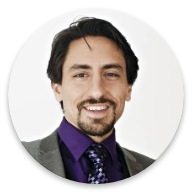
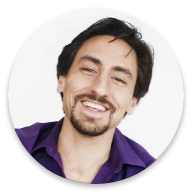
Changed photo, cleaned code.

diff --git a/style.css b/style.css
@@ -20,7 +20,7 @@ h3 {
 }
 
 .backgroundContainer {
-    background-color:  rgb(173, 66, 244); /*Hex color: #ad42f4*/
+    background-color:  rgb(173, 66, 244); /*Purple. Hex color: #ad42f4*/
     position: absolute;
     width: 100%;
     height: 425px;
@@ -34,7 +34,35 @@ h3 {
 
 .portraitContainer {
     margin-top: 75px;
+    text-align: center;
 }
+
+.portraitContainer:hover {
+
+}
+
+/*.grow:hover {
+  height: 145px;
+}*/
+
+ /*Fading Portrait */
+/*#portrait-fade {
+  position:relative;
+  height:200px;
+  width:190px;
+  margin:0 auto;
+}
+#portrait-fade img {
+  position:absolute;
+  left:0;
+  -webkit-transition: opacity 1s ease-in-out;
+  -moz-transition: opacity 1s ease-in-out;
+  -o-transition: opacity 1s ease-in-out;
+  transition: opacity 1s ease-in-out;
+}
+#portrait-fade img.top:hover {
+  opacity:0;
+}*/
 
 .personalInformation {
     color: #fff;
@@ -47,7 +75,6 @@ h3 {
 
 .position {
     text-shadow: 2px 2px 5px #000;
-
     margin-top: 25px;
     font-size: 21px;
     text-align: center;
@@ -61,11 +88,7 @@ h3 {
 
 .tagline {
     text-shadow: 2px 2px 5px #000;
-
     margin-bottom: 25px;
-
-    /*color: rgb(173, 66, 244);*/ /*Purple Hex color: #ad42f4*/
-
     text-align: center;
 
     -webkit-animation: fadein 5s; /* Safari, Chrome and Opera > 12.1 */
@@ -192,26 +215,6 @@ h3 {
 
 .project-description-container {
     margin-top: 90px;
-}
-
-
- /*Fading Portrait */
-#portrait-fade {
-  position:relative;
-  height:200px;
-  width:190px;
-  margin:0 auto;
-}
-#portrait-fade img {
-  position:absolute;
-  left:0;
-  -webkit-transition: opacity 1s ease-in-out;
-  -moz-transition: opacity 1s ease-in-out;
-  -o-transition: opacity 1s ease-in-out;
-  transition: opacity 1s ease-in-out;
-}
-#portrait-fade img.top:hover {
-  opacity:0;
 }
 
 /* Expandable Contact Box */

diff --git a/index.html b/index.html
@@ -18,10 +18,11 @@
 
          <div class="portraitContainer">
 
-            <div id="portrait-fade">
+            <!-- <div id="portrait-fade">
                <img class="bottom" src="images/purple-matrix.png" />
                <img class="top" src="images/john-bono.png" />
-            </div>
+            </div> -->
+            <img src="images/john-bono.png">
 
          </div>
 
@@ -37,6 +38,10 @@
             <h2>Contact</h2>
             <p>Contact details will appear here with relevant links.</p>
          </div>
+
+
+
+
 
          <div class="section group">
 
